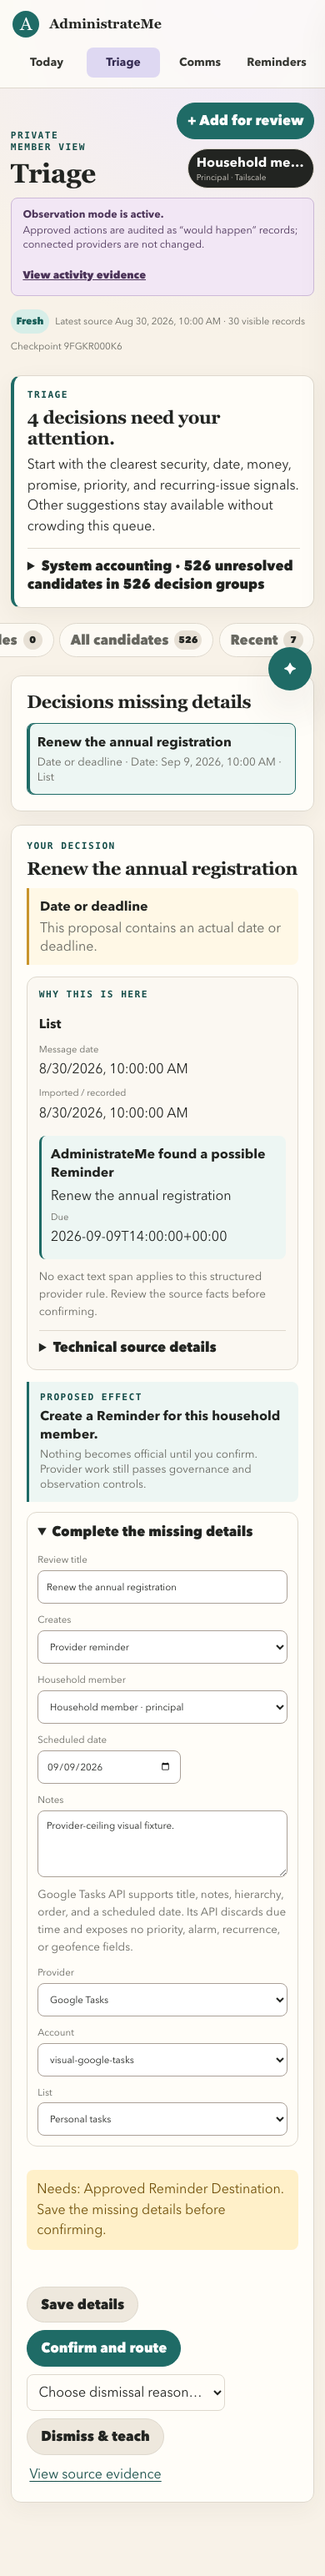
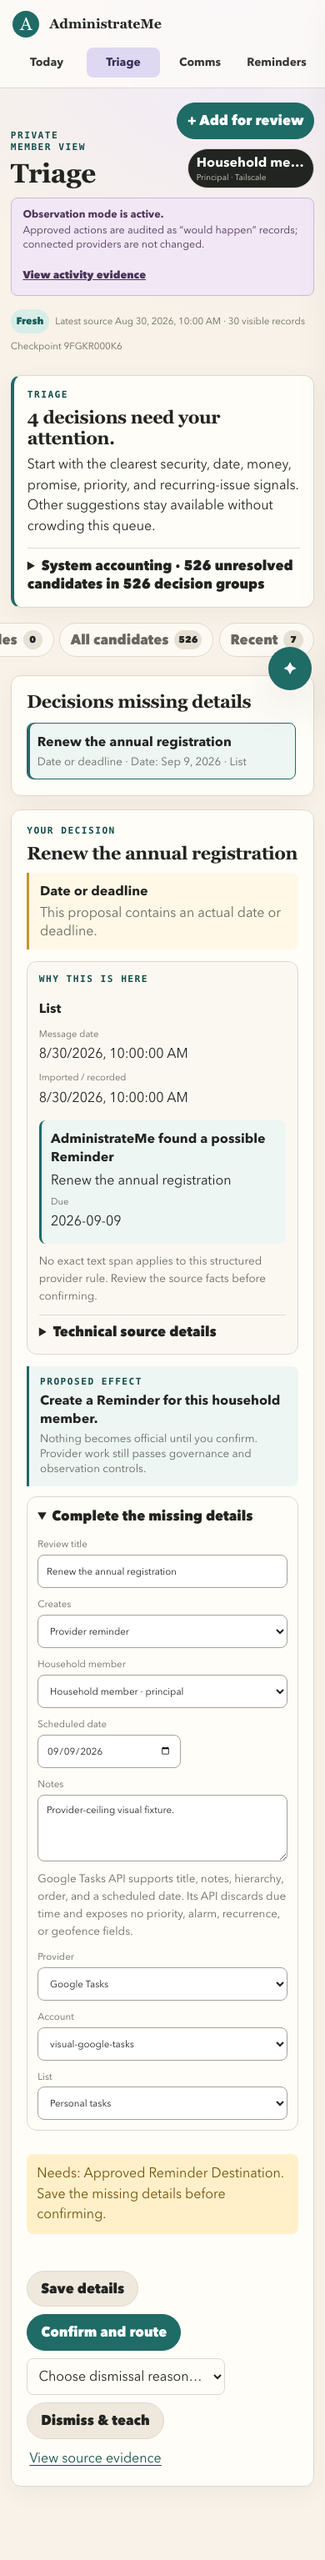
Make Gate 7 date-only evidence deterministic

diff --git a/tools/gate7_visual_server.py b/tools/gate7_visual_server.py
@@ -490,7 +490,10 @@ def build_app():
                     "owner_member_id": PRINCIPAL,
                     "title": "Renew the annual registration",
                     "candidate": {
-                        "due": (now + timedelta(days=10)).replace(hour=14).isoformat(),
+                        # Google Tasks exposes a date-only due capability. Keep
+                        # this literal independent of both the fixture clock and
+                        # the browser host timezone so Gate 7 tests that contract.
+                        "due": "2026-09-09",
                         "notes": "Provider-ceiling visual fixture.",
                     },
                     "route": {

diff --git a/docs/refactor/evidence/triage-human-workspace/README.md b/docs/refactor/evidence/triage-human-workspace/README.md
@@ -46,11 +46,11 @@ following retained SHA-256 values:
 
 | Artifact | SHA-256 |
 |---|---|
[8 lines of base64/hex data omitted]
 
 This is product and release-candidate evidence only. It grants no authority to
 merge, deploy, migrate a runtime, enroll a provider, enable writes, or alter a
